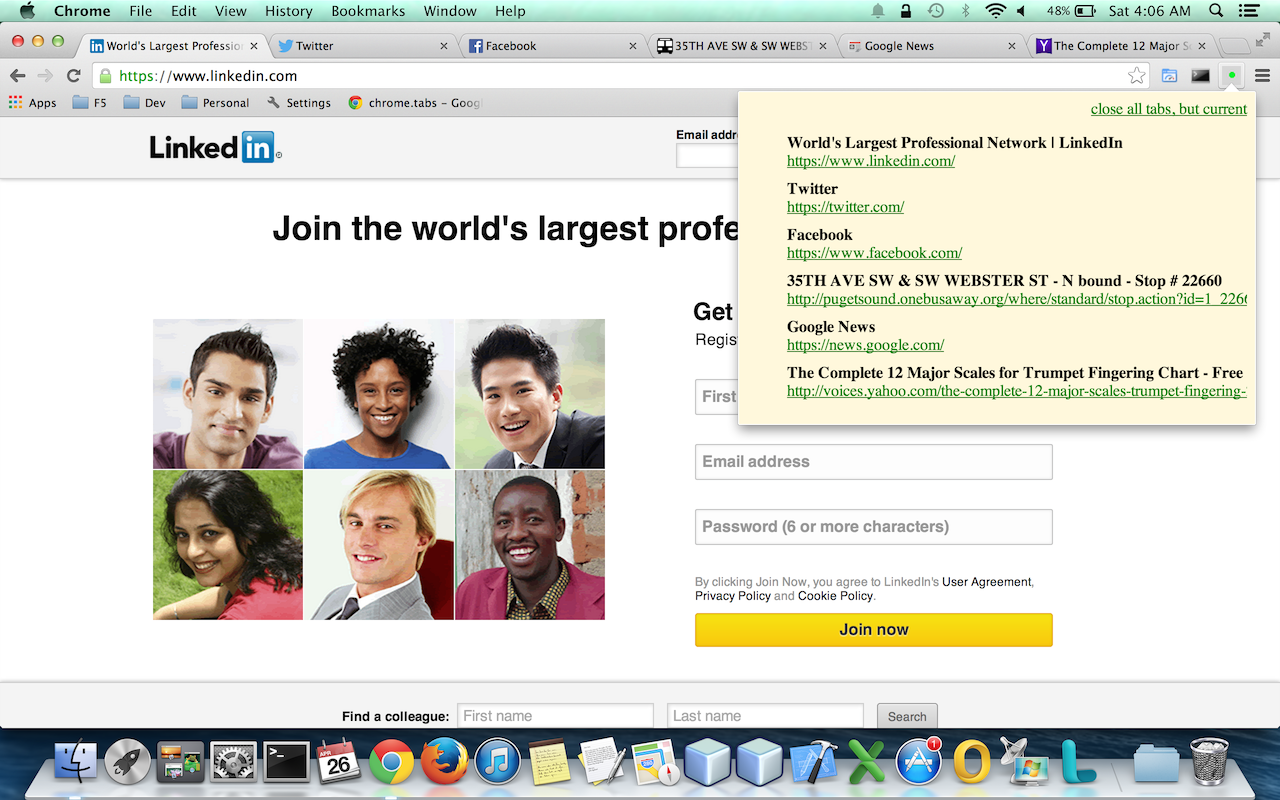
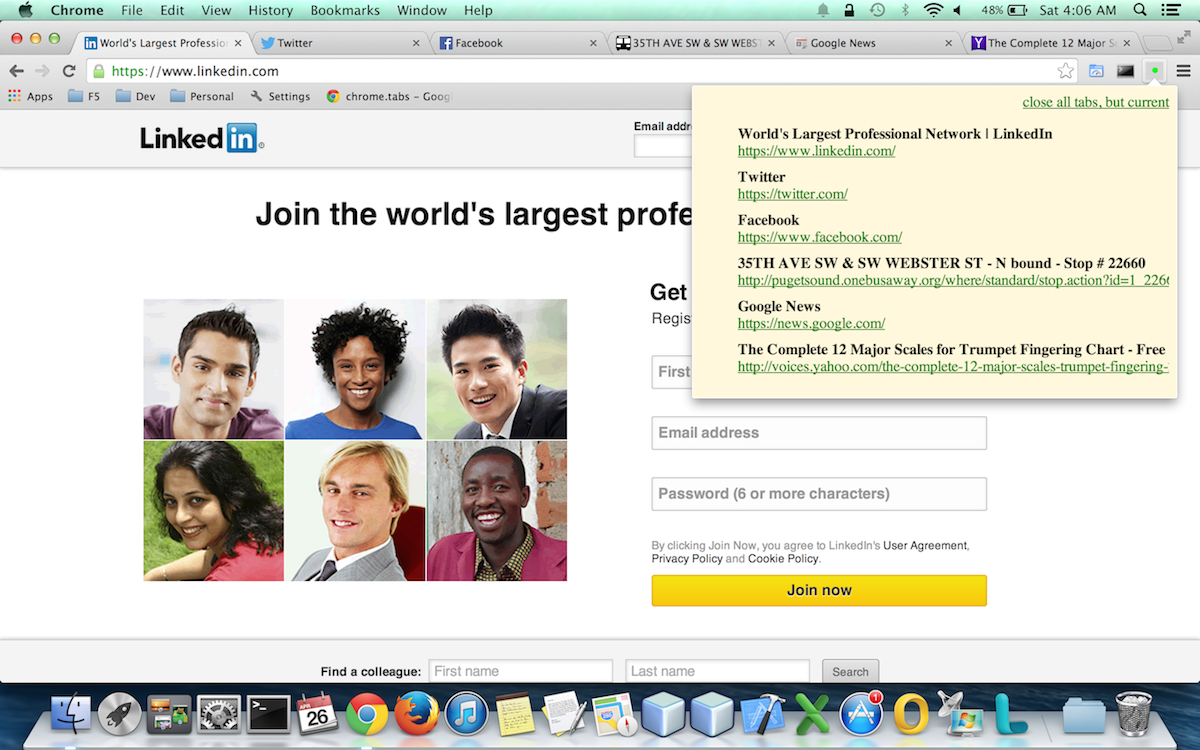
added border to div and set vertical height

diff --git a/default.html b/default.html
@@ -38,15 +38,18 @@ and open the template in the editor.
            Additionally:
         <ul>
             <li>Clicking the url in the popup window highlights the tab.</li>
-            <li>Clicking "close all tabs but current" link in upper right hand corner closes all but the current, highlighted tab.</li>
+            <li>Clicking "images" link in upper right hand strips the page and only shows its images</li>
+            <li>Clicking "close tabs" link in upper right hand corner closes all but the current, highlighted tab.</li>
         </ul>
             
         <br />
         Known Issues:
         <ul>
-            <li>Unexpected results when more than one Chrome window is open</li>
-            <li>List does not clear completely when "close all is clicked." 
+            <li>Sometimes top of popup gets clipped on opening (workaround-click button again).</li>
+            <li>Popup does not clear on mouse out (workaround-click outside of popup, on page).</li>
+            <li>Unexpected results when more than one Chrome window is open (workaround-only have 1 chrome window with multiple tabs open).</li>
+            <li>List does not clear completely when "close all is clicked" (workaround-click outside of popup, then click button again)</li>
         </ul>
-        <img src='geturls_0.0.3.0 screenshot.png' />
+        <img src='geturls_0.5.0.0 screenshot.png' alt='geturls version 0.5.0.0' />
     </body>
 </html>

diff --git a/index.html b/index.html
@@ -16,12 +16,16 @@
             
             div#listdiv
             {
-                overflow:hidden;
-                width:500px;
+                overflow-x:hidden;
+                overflow-y:scroll;
+                width:300px;
+                height:300px;
                 margin:0px;
                 border:0px;
                 padding:0px;
                 //float:left;
+                border:2px solid;
+                border-radius:25px;
                 
             }
             
@@ -54,7 +58,7 @@
             
             td
             {
-                border-spacing: 10px 5px;
+                padding: 10px;
             }
             
         </style>
@@ -75,7 +79,7 @@
         </div>
         
         <div id="listdiv">
-        <ul id="urls"></ul>
+            <ul id="urls"></ul>
         </div>
     </body>
 </html>

diff --git a/geturls.js b/geturls.js
@@ -1,7 +1,5 @@
 /**
  * This is called when the document is loaded
- * @param {type} param1
- * @param {type} param2
  */
 document.addEventListener('DOMContentLoaded', function () {
 
@@ -71,7 +69,7 @@ function CloseAllButCurrentTab(){
         currentTab = tabs[0].id;
         chrome.tabs.query({}, function (tabs) {
             for (var i = 0; i < tabs.length; i++) {
-                if(tabs[i].id!=currentTab)
+                if(tabs[i].id!==currentTab)
                 {
                     chrome.tabs.remove(tabs[i].id, function(){});
                 }
